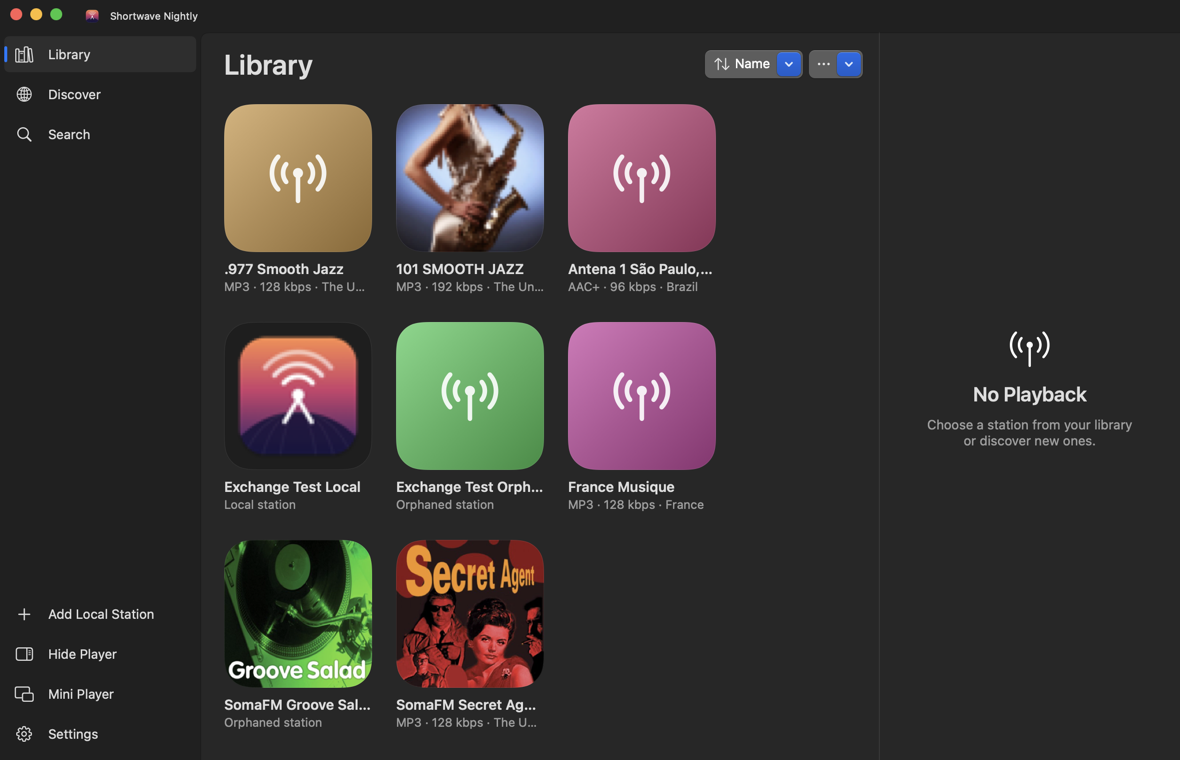
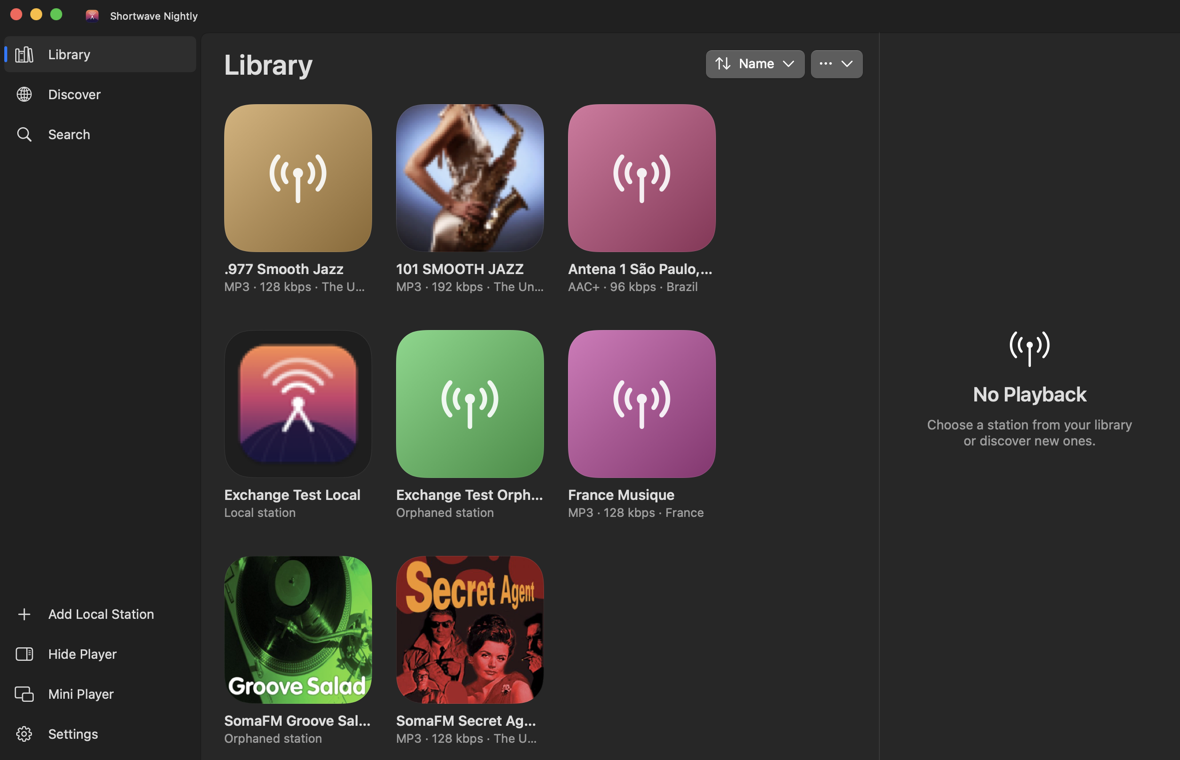
Mac design round 3: the Windows session's Round 2 items; reliable main window at launch
- Sort and More are neutral drop-down buttons with the chevron inside (DropDownMenu), like Country.
- AccentButtonStyle follows WinUI's rule for every accent button (Play in details, Discover New
  Stations, Add Station / Save, Save Track): the accent with white text in light mode, the light
  shade with black text in dark mode.
- Empty-state buttons are large; the empty-state glyph is TextFillColorTertiary.
  -screenshot renders draw SF Symbols untinted (white in dark mode), but they're coloured on screen;
  checked with a real screen capture and noted in Screenshot.swift.
- Cards are 214 tall, so rows are 226 apart as on Windows. Settings opens with nothing focused.
  Hover is off in -screenshot runs.
- The main window: SwiftUI's openWindow action now comes from the menu bar icon, which is built
  even when the app isn't active. Ensuring the window retries for up to 10 s. Three script launches
  in a row all opened it.
- Checked with real input: the Sort menu opens, choosing Votes saves it and reorders the grid.
  26 unit tests, exchange (incl. the Windows export) and 5/5 smoke tests pass.

Claude-Session: https://claude.ai/code/session_01T34dYzQtMW3DgCzMFdBgwc

diff --git a/Sources/Shortwave/Views/Fluent.swift b/Sources/Shortwave/Views/Fluent.swift
@@ -92,6 +92,7 @@ struct GroupTitle: View {
 
 /// A big icon, a title, a line of text and optional buttons, centred in a page.
 struct EmptyState<Actions: View>: View {
+    @Environment(\.colorScheme) private var scheme
     let symbol: String
     let title: String
     var text: String = ""
@@ -100,13 +101,13 @@ struct EmptyState<Actions: View>: View {
 
     var body: some View {
         VStack(spacing: 10) {
-            Image(systemName: symbol).font(.system(size: iconSize, weight: .light)).foregroundStyle(Fluent.tertiaryText)
+            Image(systemName: symbol).font(.system(size: iconSize, weight: .light)).foregroundStyle(scheme == .dark ? Color.white.opacity(0.53) : Color.black.opacity(0.447))
                 .padding(.bottom, 2)
             Text(title).font(Fluent.subtitleFont).multilineTextAlignment(.center)
             if !text.isEmpty {
                 Text(text).foregroundStyle(.secondary).multilineTextAlignment(.center)
             }
-            HStack(spacing: 8) { actions }.padding(.top, 6)
+            HStack(spacing: 8) { actions }.controlSize(.large).padding(.top, 6)
         }
         .frame(maxWidth: 420)
         .padding(24)
@@ -142,7 +143,7 @@ struct NavRow: View {
             .frame(height: 36)
             .contentShape(Rectangle())
             .background(RoundedRectangle(cornerRadius: 5, style: .continuous)
-                .fill(selected ? Fluent.subtle : hovering ? Fluent.subtleHover : .clear))
+                .fill(selected ? Fluent.subtle : hovering && !Diagnostics.rendering ? Fluent.subtleHover : .clear))
             .overlay(alignment: .leading) {
                 if selected {
                     Capsule().fill(.tint).frame(width: 3, height: 16)
@@ -154,5 +155,49 @@ struct NavRow: View {
         .help(help ?? title)
         .accessibilityLabel(title)
         .accessibilityAddTraits(selected ? .isSelected : [])
+    }
+}
+
+/// WinUI's accent button: the accent fill (its lighter shade in dark mode) with white text in light
+/// mode and black text in dark mode, 4 pt corners, 32 pt tall at the large size.
+struct AccentButtonStyle: ButtonStyle {
+    @Environment(\.isEnabled) private var enabled
+    @Environment(\.controlSize) private var size
+
+    func makeBody(configuration: Configuration) -> some View {
+        configuration.label
+            .lineLimit(1)
+            .fixedSize()
+            .fontWeight(.medium)
+            .foregroundStyle(enabled ? AnyShapeStyle(Fluent.onAccent) : AnyShapeStyle(.tertiary))
+            .padding(.horizontal, 12)
+            .frame(minHeight: size == .large ? 32 : 24)
+            .background(RoundedRectangle(cornerRadius: 4, style: .continuous)
+                .fill(enabled ? AnyShapeStyle(Fluent.accentFill) : AnyShapeStyle(.quaternary)))
+            .opacity(configuration.isPressed ? 0.8 : 1)
+            .contentShape(Rectangle())
+    }
+}
+
+extension ButtonStyle where Self == AccentButtonStyle {
+    static var accent: AccentButtonStyle { AccentButtonStyle() }
+}
+
+/// A neutral drop-down button (WinUI DropDownButton): an icon, an optional title and a chevron, no
+/// coloured arrow. macOS menus keep only one image from a label, so it's all one Text.
+struct DropDownMenu<Content: View>: View {
+    let symbol: String
+    var title: String = ""
+    @ViewBuilder var content: Content
+    var body: some View {
+        Menu {
+            content
+        } label: {
+            Text("\(Image(systemName: symbol))\(title.isEmpty ? "" : "  " + title)  \(Image(systemName: "chevron.down"))")
+        }
+        .menuStyle(.button)
+        .buttonStyle(.bordered)
+        .menuIndicator(.hidden)
+        .fixedSize()
     }
 }

diff --git a/Sources/Shortwave/Views/Pages.swift b/Sources/Shortwave/Views/Pages.swift
@@ -13,7 +13,7 @@ struct LibraryPage: View {
             if app.library.isEmpty {
                 EmptyState(symbol: "antenna.radiowaves.left.and.right", title: "Your Library Is Empty",
                            text: "Discover over 50,000 public stations and add the ones you like.", iconSize: 48) {
-                    Button("Discover New Stations") { app.page = .discover }.buttonStyle(.borderedProminent)
+                    Button("Discover New Stations") { app.page = .discover }.buttonStyle(.accent)
                     Button("Add Local Station") { app.showingAddStation = true }
                     Button("Import Stations…") { app.chooseImportFile() }
                 }
@@ -31,13 +31,10 @@ struct LibraryPage: View {
 struct LibraryMoreMenu: View {
     @Environment(AppModel.self) private var app
     var body: some View {
-        Menu {
+        DropDownMenu(symbol: "ellipsis") {
             Button("Import Stations…") { app.chooseImportFile() }
             Button("Export Stations…") { app.chooseExportFile() }.disabled(app.library.isEmpty)
-        } label: {
-            Image(systemName: "ellipsis")
         }
-        .fixedSize()
         .help("Import or export your saved stations")
         .accessibilityLabel("More")
     }
@@ -47,7 +44,7 @@ struct SortMenu: View {
     @Environment(AppModel.self) private var app
     var body: some View {
         @Bindable var settings = app.settings
-        Menu {
+        DropDownMenu(symbol: "arrow.up.arrow.down", title: settings.librarySorting.title) {
             Picker("Sort By", selection: $settings.librarySorting) {
                 ForEach(StationSorting.allCases) { Text($0.title).tag($0) }
             }
@@ -57,11 +54,7 @@ struct SortMenu: View {
                 Text("Descending").tag(false)
             }
             .pickerStyle(.inline)
-        } label: {
-            Label(settings.librarySorting.title, systemImage: "arrow.up.arrow.down")
-                .labelStyle(.titleAndIcon)
         }
-        .fixedSize()
         .help("Sort the library")
         .accessibilityLabel("Sort")
     }

diff --git a/Sources/Shortwave/Model/AppModel.swift b/Sources/Shortwave/Model/AppModel.swift
@@ -120,12 +120,7 @@ final class AppModel {
             Screenshot.scheduleIfAsked { [weak self] in self?.openWindowByID?("main") }
             // SwiftUI doesn't always present the main window at launch (seen with copies started
             // from a script); make sure it's there.
-            DispatchQueue.main.asyncAfter(deadline: .now() + 1) { [weak self] in
-                if !NSApp.windows.contains(where: { $0.isVisible && $0.identifier?.rawValue.contains("main") == true }) {
-                    Diagnostics.log("opening the main window")
-                    self?.openWindowByID?("main")
-                }
-            }
+            self.ensureMainWindow(attempt: 0)
             if Diagnostics.openMiniPlayer {
                 DispatchQueue.main.asyncAfter(deadline: .now() + 1.5) { [weak self] in self?.openWindowByID?("mini") }
             }
@@ -136,6 +131,25 @@ final class AppModel {
         }
         if let url = Diagnostics.playURL {
             player.select(Station.local(name: "Test Stream", streamURL: url))
+        }
+    }
+
+    /// Opens the main window if SwiftUI didn't. The open action exists only once the menu commands
+    /// have been built, so this checks every half second for up to 10 seconds.
+    private func ensureMainWindow(attempt: Int) {
+        guard attempt < 20 else { return }
+        DispatchQueue.main.asyncAfter(deadline: .now() + 0.5) { [weak self] in
+            guard let self else { return }
+            if NSApp.windows.contains(where: { $0.isVisible && $0.identifier?.rawValue.contains("main") == true }) { return }
+            if let open = self.openWindowByID {
+                Diagnostics.log("opening the main window")
+                open("main")
+            } else if attempt == 0 {
+                // The menu commands (and with them the open action) are built when the app becomes
+                // active, which a copy started from a script isn't.
+                NSApp.activate()
+            }
+            self.ensureMainWindow(attempt: attempt + 1)
         }
     }
 

diff --git a/Sources/Shortwave/Views/Sheets.swift b/Sources/Shortwave/Views/Sheets.swift
@@ -21,7 +21,7 @@ struct StationDetailSheet: View {
                         Button { app.play(station) } label: {
                             Label(isActive ? "Playing" : "Play", systemImage: "play.fill")
                         }
-                        .buttonStyle(.borderedProminent)
+                        .buttonStyle(.accent)
                         .disabled(isActive)
                         Button { app.toggleLibrary(station) } label: {
                             Label(inLibrary ? "Remove from Library" : "Add to Library",
@@ -171,6 +171,7 @@ struct LocalStationSheet: View {
                 Button("Cancel") { dismiss() }.keyboardShortcut(.cancelAction)
                 Button(editing == nil ? "Add Station" : "Save") { commit() }
                     .keyboardShortcut(.defaultAction)
+                    .buttonStyle(.accent)
                     .disabled(!isValid)
             }
             .padding(16)
@@ -272,7 +273,7 @@ struct TrackDetailSheet: View {
                     Button("Play Track") { NSWorkspace.shared.open(saved) }
                 }
                 if track.canSave {
-                    Button("Save Track") { Task { await app.player.save(track) } }.buttonStyle(.borderedProminent)
+                    Button("Save Track") { Task { await app.player.save(track) } }.buttonStyle(.accent)
                 }
                 Button("Close") { dismiss() }.keyboardShortcut(.cancelAction)
             }

diff --git a/Sources/Shortwave/Views/StationViews.swift b/Sources/Shortwave/Views/StationViews.swift
@@ -52,7 +52,7 @@ struct StationCard: View {
         VStack(alignment: .leading, spacing: 8) {
             ZStack(alignment: .bottomTrailing) {
                 StationCover(station: station, size: 148)
-                if hovering || isActive {
+                if (hovering && !Diagnostics.rendering) || isActive {
                     Button {
                         if isActive { app.player.stopPlayback() } else { app.play(station) }
                     } label: {
@@ -80,7 +80,8 @@ struct StationCard: View {
             .frame(width: 148, alignment: .leading)
         }
         .padding(8)
-        .background(RoundedRectangle(cornerRadius: 14, style: .continuous).fill(hovering ? Fluent.subtle : .clear))
+        .frame(height: 214, alignment: .top)   // WinUI's MinItemHeight: rows 226 apart
+        .background(RoundedRectangle(cornerRadius: 14, style: .continuous).fill(hovering && !Diagnostics.rendering ? Fluent.subtle : .clear))
         .contentShape(Rectangle())
         .onHover { hovering = $0 }
         .onTapGesture(count: 2) { app.play(station) }

diff --git a/Sources/Shortwave/ShortwaveApp.swift b/Sources/Shortwave/ShortwaveApp.swift
@@ -34,7 +34,7 @@ struct ShortwaveApp: App {
         MenuBarExtra {
             MenuBarContent().environment(app)
         } label: {
-            Image(systemName: app.player.isPlaying ? "dot.radiowaves.left.and.right" : "radio")
+            MenuBarLabel(app: app)
         }
     }
 }
@@ -112,5 +112,20 @@ struct ShortwaveCommands: Commands {
                 .keyboardShortcut("m", modifiers: [.command, .shift])
             Divider()
         }
+    }
+}
+
+/// The menu bar icon. It's drawn at launch even when the app isn't active (unlike the menu
+/// commands), so it also hands the model SwiftUI's openWindow action.
+struct MenuBarLabel: View {
+    let app: AppModel
+    @Environment(\.openWindow) private var openWindow
+
+    var body: some View {
+        Image(systemName: app.player.isPlaying ? "dot.radiowaves.left.and.right" : "radio")
+            .task {
+                let open = openWindow
+                app.openWindowByID = { open(id: $0) }
+            }
     }
 }

diff --git a/Sources/Shortwave/Model/Diagnostics.swift b/Sources/Shortwave/Model/Diagnostics.swift
@@ -43,6 +43,8 @@ enum Diagnostics {
     }
     static var openMiniPlayer: Bool { CommandLine.arguments.contains("-miniPlayer") }
     static var openAddStation: Bool { CommandLine.arguments.contains("-addStation") }
+    /// A `-screenshot` run: hover effects are left out so the pointer's position doesn't show.
+    static let rendering = UserDefaults.standard.string(forKey: "screenshot") != nil
     static var openFirstResult: Bool { CommandLine.arguments.contains("-openFirstResult") }
     static var openTrackDetail: Bool { CommandLine.arguments.contains("-openTrackDetail") }
     /// Test runs are always muted and keep off Now Playing / media keys (pass -audible for a sound test).

diff --git a/Sources/Shortwave/Model/Screenshot.swift b/Sources/Shortwave/Model/Screenshot.swift
@@ -3,6 +3,8 @@ import AppKit
 /// `-screenshot <png>` (test runs): after `-screenshotDelay` seconds (default 4), draws the main
 /// window, with any open sheet laid over it, into a PNG and quits. It draws the app's own views,
 /// so it works with the display asleep, like the Windows app's flag of the same name.
+/// Known limit: SF Symbols draw untinted (white in dark mode) in these renders; on screen they
+/// take their colour. Check symbol colours with a real screen capture.
 /// `-appearance light|dark` picks the look for the run (it overrides the App Theme setting).
 @MainActor
 enum Screenshot {

diff --git a/Sources/Shortwave/Views/MainViews.swift b/Sources/Shortwave/Views/MainViews.swift
@@ -226,6 +226,8 @@ struct SettingsPage: View {
             }
         }
         .onChange(of: settings.recorderConfig) { app.player.settingsChanged() }
+        // Don't open with the first number field focused (and its text selected).
+        .onAppear { DispatchQueue.main.async { NSApp.keyWindow?.makeFirstResponder(nil) } }
     }
 }
 

diff --git a/docs/MAC-WINDOWS-SYNC.md b/docs/MAC-WINDOWS-SYNC.md
@@ -49,6 +49,22 @@ No change needed: the dialog button sizes and order (Mac convention), the Search
 the system blue on Mac toggles, radios and pop-ups (they follow the Mac's accent, as WinUI's follow
 Windows').
 
+### Mac: response to Round 2
+
+1. **Fixed.** Sort and More are neutral bordered buttons with a `chevron.down` inside (`DropDownMenu`
+   in `Fluent.swift`), like Country.
+2. **The app was already right; the renders weren't.** On a real screen capture the glyph takes its
+   colour (`#87FFFFFF` in dark). `cacheDisplay`, which `-screenshot` uses, draws SF Symbols untinted,
+   white in dark mode, whatever their style. Even a test `Color.red` came out white in the render
+   but red on screen. Now noted in `Screenshot.swift`. Check symbol colours on the real screen.
+3. **Fixed.** A shared `AccentButtonStyle` follows the WinUI rule: the accent with white text in light
+   mode, the light shade with black text in dark mode, 4 pt corners and 32 pt tall at the large size.
+   It's used for Play in details, Discover New Stations, Add Station / Save and Save Track.
+4. **Fixed.** Empty-state buttons use `.controlSize(.large)`.
+5. **Fixed.** Hover effects are off in `-screenshot` runs.
+6. **Fixed.** Settings opens with no field focused.
+7. **Fixed.** Cards are 214 tall (WinUI's MinItemHeight), so rows are 226 apart.
+
 ## Round 1 (2026-11-17): Josh's two asks
 
 1. **"The Windows version did a better job on the overall UI design."** The Mac app should look like
